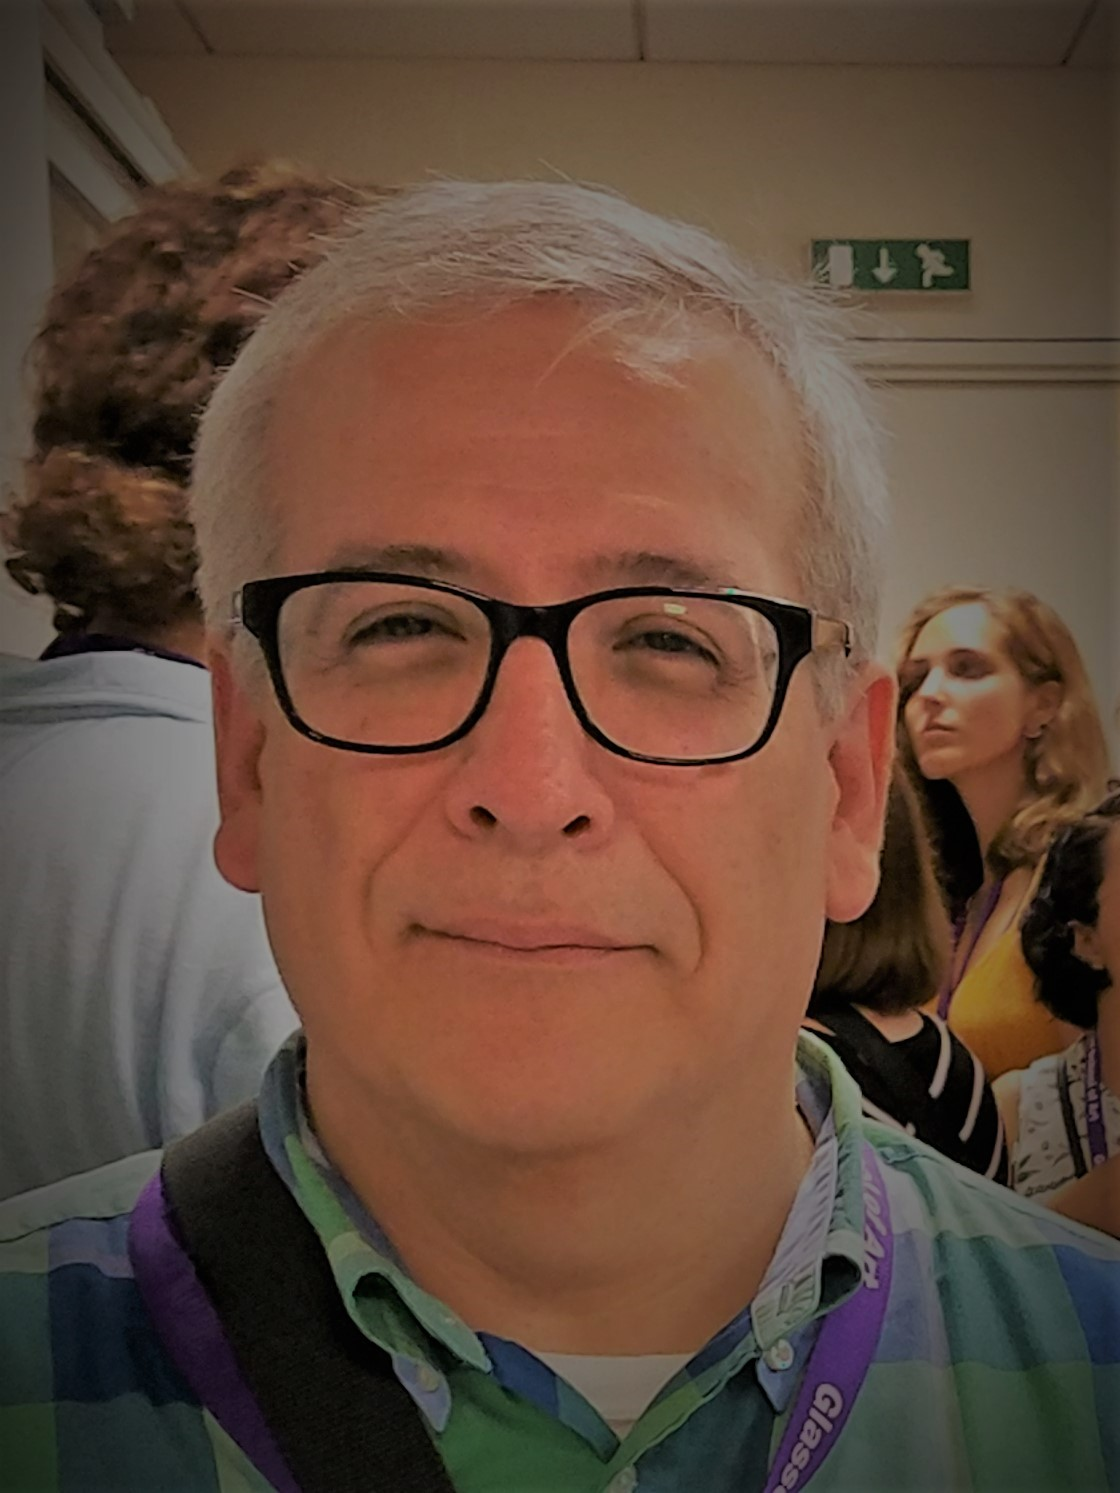
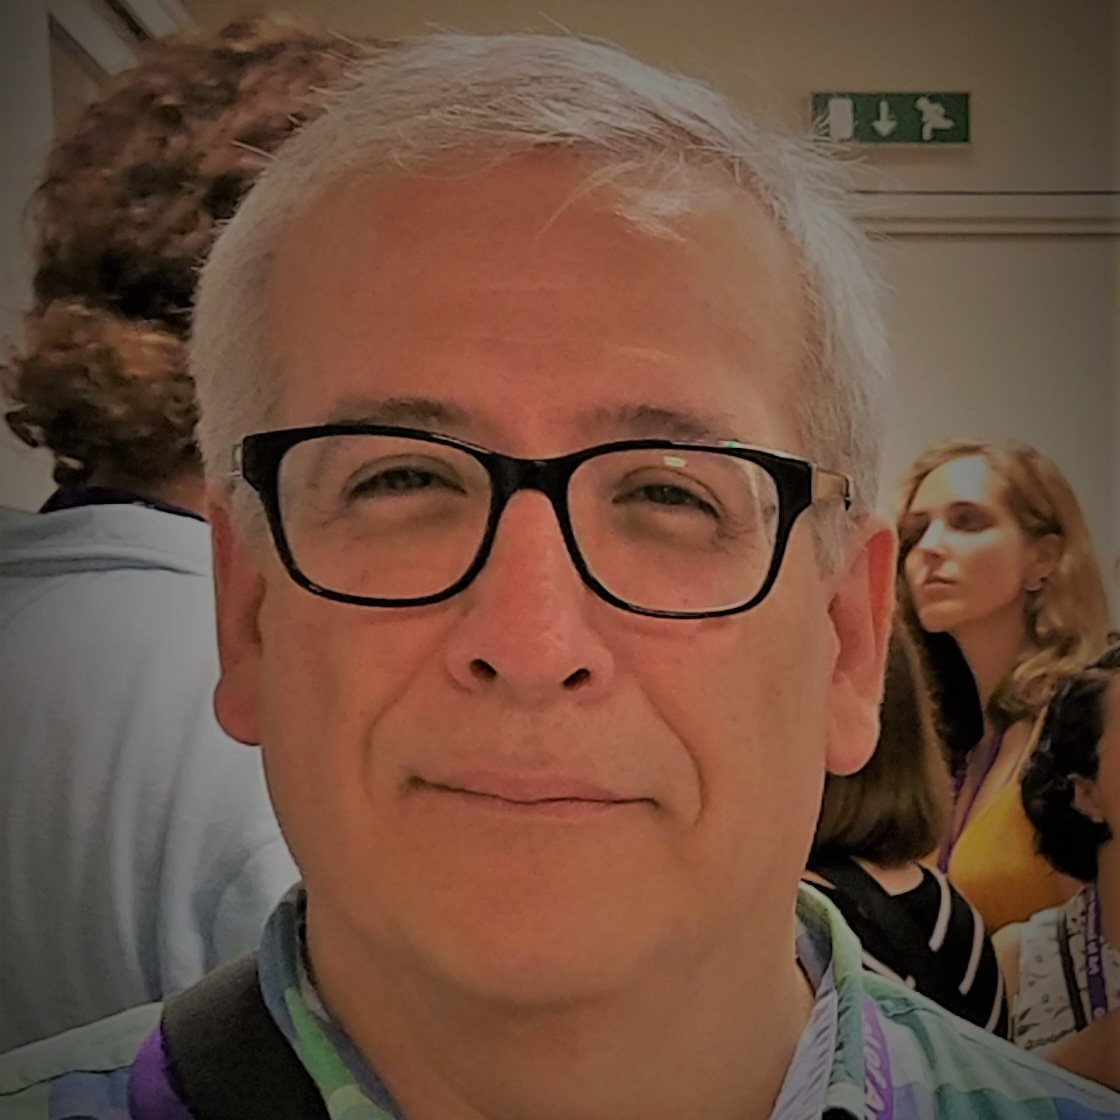
crop about images and update about spacing

diff --git a/assets/styles.scss b/assets/styles.scss
@@ -4,10 +4,6 @@ sitemap: false
 
 @import 'digitalhealthhumanities-toolkit-theme';
 
-h3 {
-    color: #14828C
-}
-
 #dhht-header {
     background-color: #0F388A;
 }

diff --git a/_about/about.md b/_about/about.md
@@ -8,7 +8,7 @@ title: About the Advancing Digital Health Humanities Institute
 Coming Soon!
 
 ## Meet Our Team
-<div>
+<div class="mt-3 mb-3">
     {% for individual in site.about %}
         {% if individual.association == "lead" %}
             {% include bio-card.html person=individual %}
@@ -17,7 +17,7 @@ Coming Soon!
 </div>
 
 ### Consultants
-<div>
+<div class="mt-3 mb-3">
     {% for consultant in site.about %}
         {% if consultant.association == "consultant" %}
             {% include bio-card.html person=consultant %}
@@ -26,7 +26,7 @@ Coming Soon!
 </div>
 
 ### Instructors and Presenters
-<div>
+<div class="mt-3 mb-3">
     {% for instructor in site.about %}
         {% if instructor.association == "instructor" %}
             {% include bio-card.html person=instructor %}   
@@ -35,7 +35,7 @@ Coming Soon!
 </div>
 
 ### Awardees
-<div>
+<div class="mt-3 mb-3">
     {% for awardee in site.about %}
         {% if awardee.association == "awardee" %}
             {% include bio-card.html person=awardee %}
